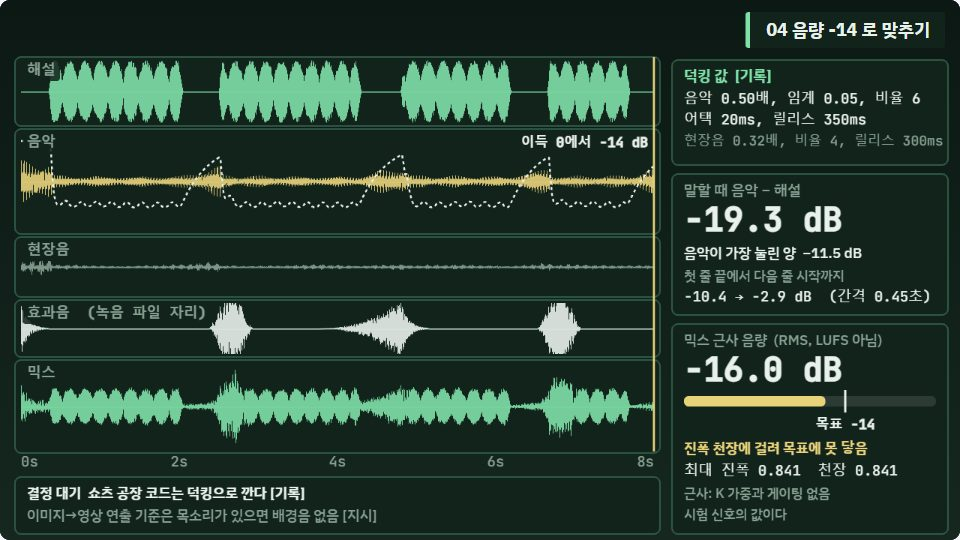
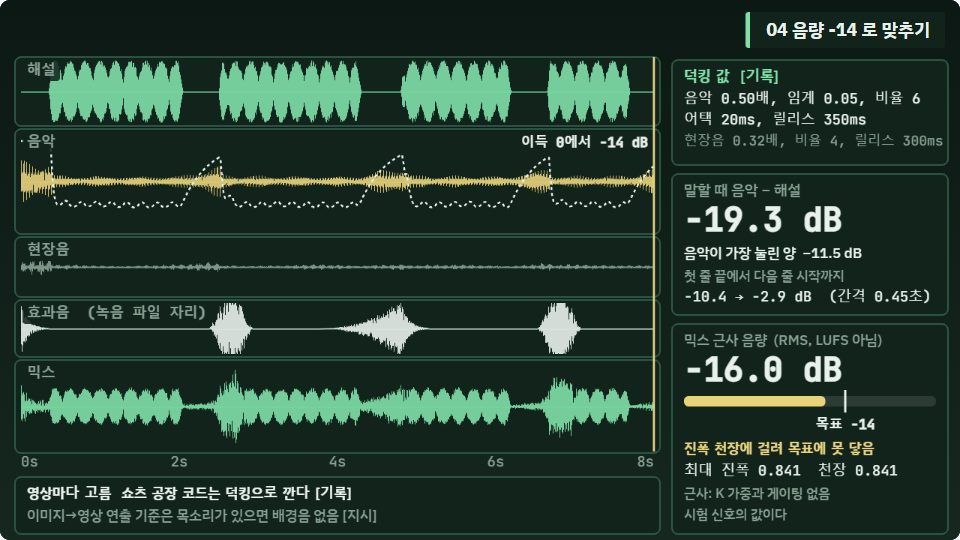
lab: 쇼츠 규칙 R27·R31 결정 반영, 결정 대기 비움

Changed region(s): [[0.0312, 0.8889, 0.375, 0.9481], [0.75, 0.8, 0.9062, 0.8593], [0.75, 0.1185, 0.8125, 0.1778]]

diff --git a/app/lab/_demos/art/d215.js b/app/lab/_demos/art/d215.js
@@ -160,7 +160,7 @@ const demo = {
     x.strokeStyle = PAL.accent2; x.lineWidth = 1.4; const PX = LX + upto * LW; x.beginPath(); x.moveTo(PX, 38); x.lineTo(PX, 301); x.stroke();
     // 결정 대기 카드
     card(x, LX - 4, 318, LW + 8, 38);
-    T(x, '결정 대기  쇼츠 공장 코드는 덕킹으로 깐다 [기록]', LX + 4, 332, 9.5, PAL.ink, 600);
+    T(x, '영상마다 고름  쇼츠 공장 코드는 덕킹으로 깐다 [기록]', LX + 4, 332, 9.5, PAL.ink, 600);
     T(x, '이미지→영상 연출 기준은 목소리가 있으면 배경음 없음 [지시]', LX + 4, 347, 9.5, PAL.muted, 500);
     // 오른쪽 읽기값
     const RX = 448, RW = 184, c0 = done ? PAL.ink : PAL.muted;

diff --git a/app/lab/_demos/art/d215_lowtarget.js b/app/lab/_demos/art/d215_lowtarget.js
@@ -160,7 +160,7 @@ const demo = {
     x.strokeStyle = PAL.accent2; x.lineWidth = 1.4; const PX = LX + upto * LW; x.beginPath(); x.moveTo(PX, 38); x.lineTo(PX, 301); x.stroke();
     // 결정 대기 카드
     card(x, LX - 4, 318, LW + 8, 38);
-    T(x, '결정 대기  쇼츠 공장 코드는 덕킹으로 깐다 [기록]', LX + 4, 332, 9.5, PAL.ink, 600);
+    T(x, '영상마다 고름  쇼츠 공장 코드는 덕킹으로 깐다 [기록]', LX + 4, 332, 9.5, PAL.ink, 600);
     T(x, '이미지→영상 연출 기준은 목소리가 있으면 배경음 없음 [지시]', LX + 4, 347, 9.5, PAL.muted, 500);
     // 오른쪽 읽기값
     const RX = 448, RW = 184, c0 = done ? PAL.ink : PAL.muted;

diff --git a/app/lab/_demos/art/d215_otherfactory.js b/app/lab/_demos/art/d215_otherfactory.js
@@ -160,7 +160,7 @@ const demo = {
     x.strokeStyle = PAL.accent2; x.lineWidth = 1.4; const PX = LX + upto * LW; x.beginPath(); x.moveTo(PX, 38); x.lineTo(PX, 301); x.stroke();
     // 결정 대기 카드
     card(x, LX - 4, 318, LW + 8, 38);
-    T(x, '결정 대기  쇼츠 공장 코드는 덕킹으로 깐다 [기록]', LX + 4, 332, 9.5, PAL.ink, 600);
+    T(x, '영상마다 고름  쇼츠 공장 코드는 덕킹으로 깐다 [기록]', LX + 4, 332, 9.5, PAL.ink, 600);
     T(x, '이미지→영상 연출 기준은 목소리가 있으면 배경음 없음 [지시]', LX + 4, 347, 9.5, PAL.muted, 500);
     // 오른쪽 읽기값
     const RX = 448, RW = 184, c0 = done ? PAL.ink : PAL.muted;

diff --git a/app/lab/_demos/art/d215_quietbed.js b/app/lab/_demos/art/d215_quietbed.js
@@ -160,7 +160,7 @@ const demo = {
     x.strokeStyle = PAL.accent2; x.lineWidth = 1.4; const PX = LX + upto * LW; x.beginPath(); x.moveTo(PX, 38); x.lineTo(PX, 301); x.stroke();
     // 결정 대기 카드
     card(x, LX - 4, 318, LW + 8, 38);
-    T(x, '결정 대기  쇼츠 공장 코드는 덕킹으로 깐다 [기록]', LX + 4, 332, 9.5, PAL.ink, 600);
+    T(x, '영상마다 고름  쇼츠 공장 코드는 덕킹으로 깐다 [기록]', LX + 4, 332, 9.5, PAL.ink, 600);
     T(x, '이미지→영상 연출 기준은 목소리가 있으면 배경음 없음 [지시]', LX + 4, 347, 9.5, PAL.muted, 500);
     // 오른쪽 읽기값
     const RX = 448, RW = 184, c0 = done ? PAL.ink : PAL.muted;
